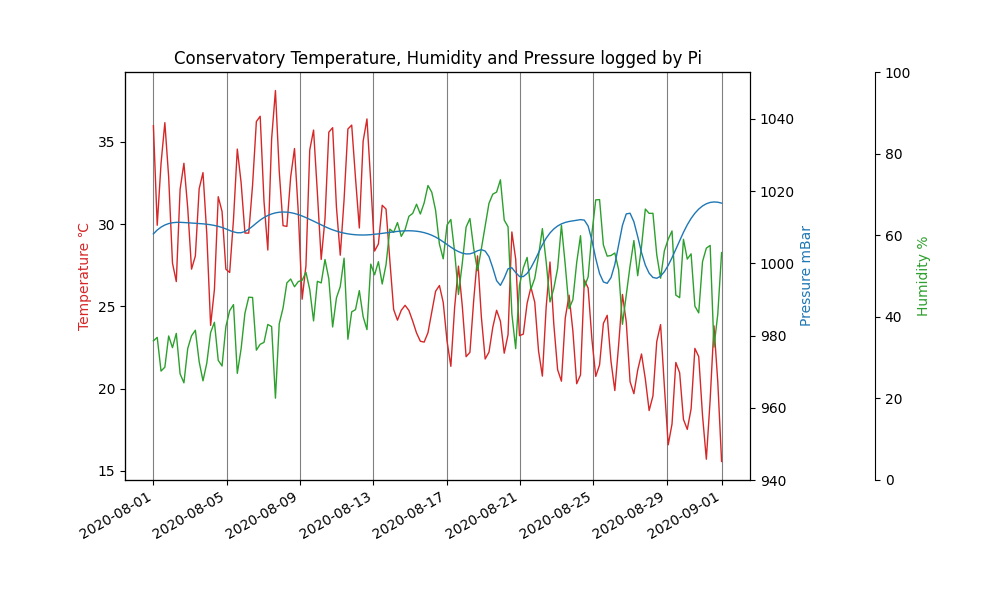
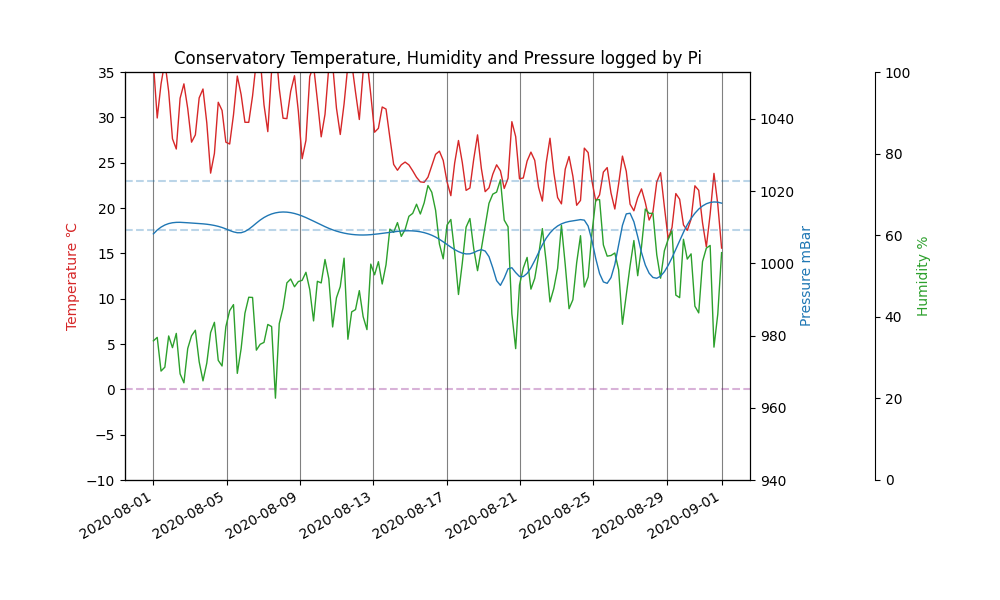
fixed scales to ease interpretation, normal pressure range and zero line

diff --git a/graph.py b/graph.py
@@ -72,7 +72,11 @@ def drawGraph(x, y, h, p, area_name):
     ax.plot(x_smooth_dt, y_smooth, color=temperature_color, linewidth=1)
     hh.plot(x_smooth_dt, h_smooth, color=humidity_color, linewidth=1)
     pp.plot(x_smooth_dt, p_smooth, color=pressure_color, linewidth=1)
+    ax.set_ylim([-10, 35])
+    ax.axhline(y=0, color='purple', linestyle='--', alpha=0.3)
     pp.set_ylim([config.pressure_min, config.pressure_max])
+    pp.axhline(y=1009.144, color='tab:blue', linestyle='--', alpha=0.3)
+    pp.axhline(y=1022.689, color='tab:blue', linestyle='--', alpha =0.3)
     hh.set_ylim([0, 100])
     plt.title(f"{area_name} Temperature, Humidity and Pressure logged by Pi")
     plt.savefig("graph.png")
